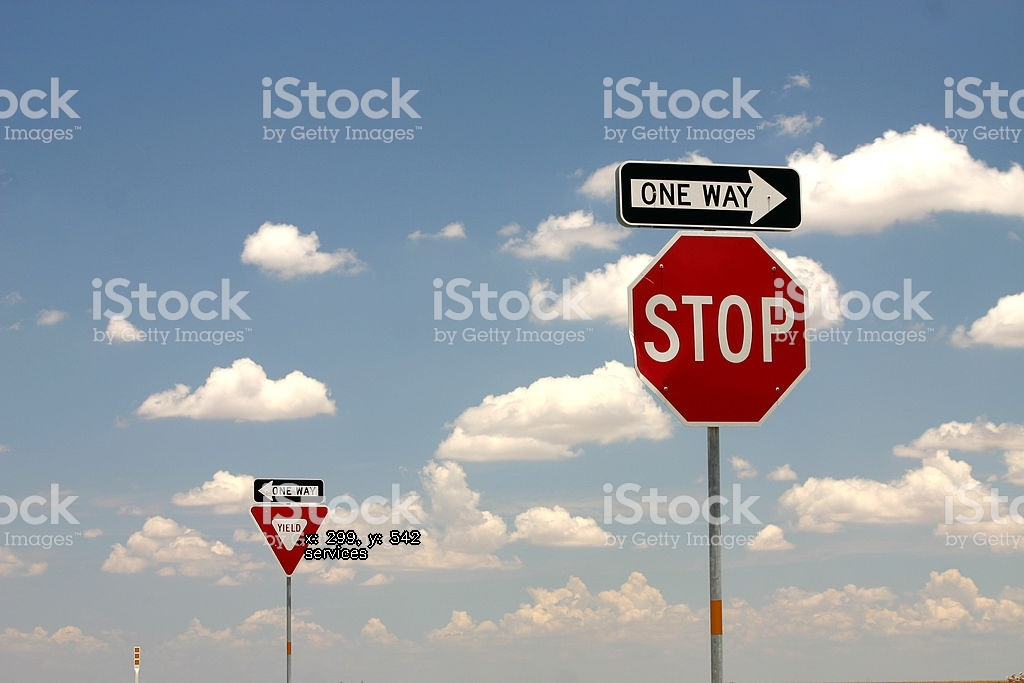
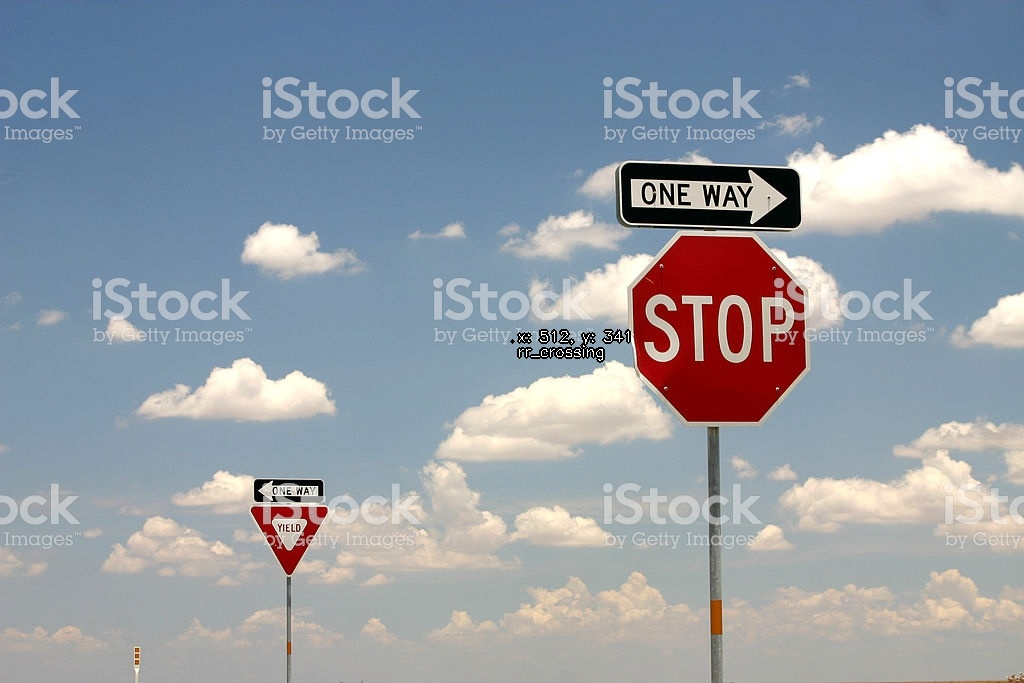
real_sign_test

Changed region(s): [[0.5, 0.4612, 0.625, 0.5227], [0.2812, 0.7687, 0.4062, 0.8302]]

diff --git a/homework/hw2/hw2.py b/homework/hw2/hw2.py
@@ -120,8 +120,6 @@ def identify_traffic_light(img: np.ndarray) -> tuple:
     # Apply the mask to the image
     masked_img = cv2.bitwise_and(img_cp, img_cp, mask=mask)
 
-    # show_image('', masked_img)
-
     # Detect circles
     circles = sign_circle(masked_img, 10, 30)
 
@@ -189,11 +187,8 @@ def identify_stop_sign(img: np.ndarray) -> tuple:
             # Get the bounding box to calculate center
             x, y, w, h = cv2.boundingRect(contour)
             aspect_ratio = float(w) / h
-
-            # Check for octagon-like aspect ratio (contour)
-            if 0.9 <= aspect_ratio <= 1.1:
-                area = cv2.contourArea(contour)
-                if area > 500:
+            if 0.8 <= aspect_ratio <= 1.2 and cv2.contourArea(contour) > 500:
+                if cv2.isContourConvex(approx):
                     return x + w // 2, y + h // 2, 'stop'
 
     return 0, 0, 'None'
@@ -262,7 +257,7 @@ def identify_construction(img: np.ndarray) -> tuple:
     # Convert the image to HSV
     hsv = cv2.cvtColor(img_cp, cv2.COLOR_BGR2HSV)
 
-    # Define orange color range (typical for construction signs)
+    # Define orange color range
     lower_orange = np.array([5, 100, 100])
     upper_orange = np.array([20, 255, 255])
 
@@ -365,6 +360,8 @@ def identify_rr_crossing(img: np.ndarray) -> tuple:
 
     # Apply the mask to the image
     masked_img = cv2.bitwise_and(img_cp, img_cp, mask=mask)
+
+    # show_image('', masked_img)
 
     # Detect circles
     circles = sign_circle(masked_img, 10, 100)
@@ -511,6 +508,9 @@ def identify_signs_real(img: np.ndarray) -> list[list]:
     # Copy the image
     img_cp = img.copy()
 
+    # # Blur the image
+    # img_blur = cv2.GaussianBlur(img_cp, (0, 0), 3.5)
+
     # List to store the detected signs
     found_signs = []
 
@@ -521,7 +521,7 @@ def identify_signs_real(img: np.ndarray) -> list[list]:
     ] # identify_traffic_light
 
     for func in detection_funcs:
-        x, y, sign_name = func(img_cp)
+        x, y, sign_name = func(img_blur)
         if sign_name != 'None':
             found_signs.append([x, y, sign_name])
 
